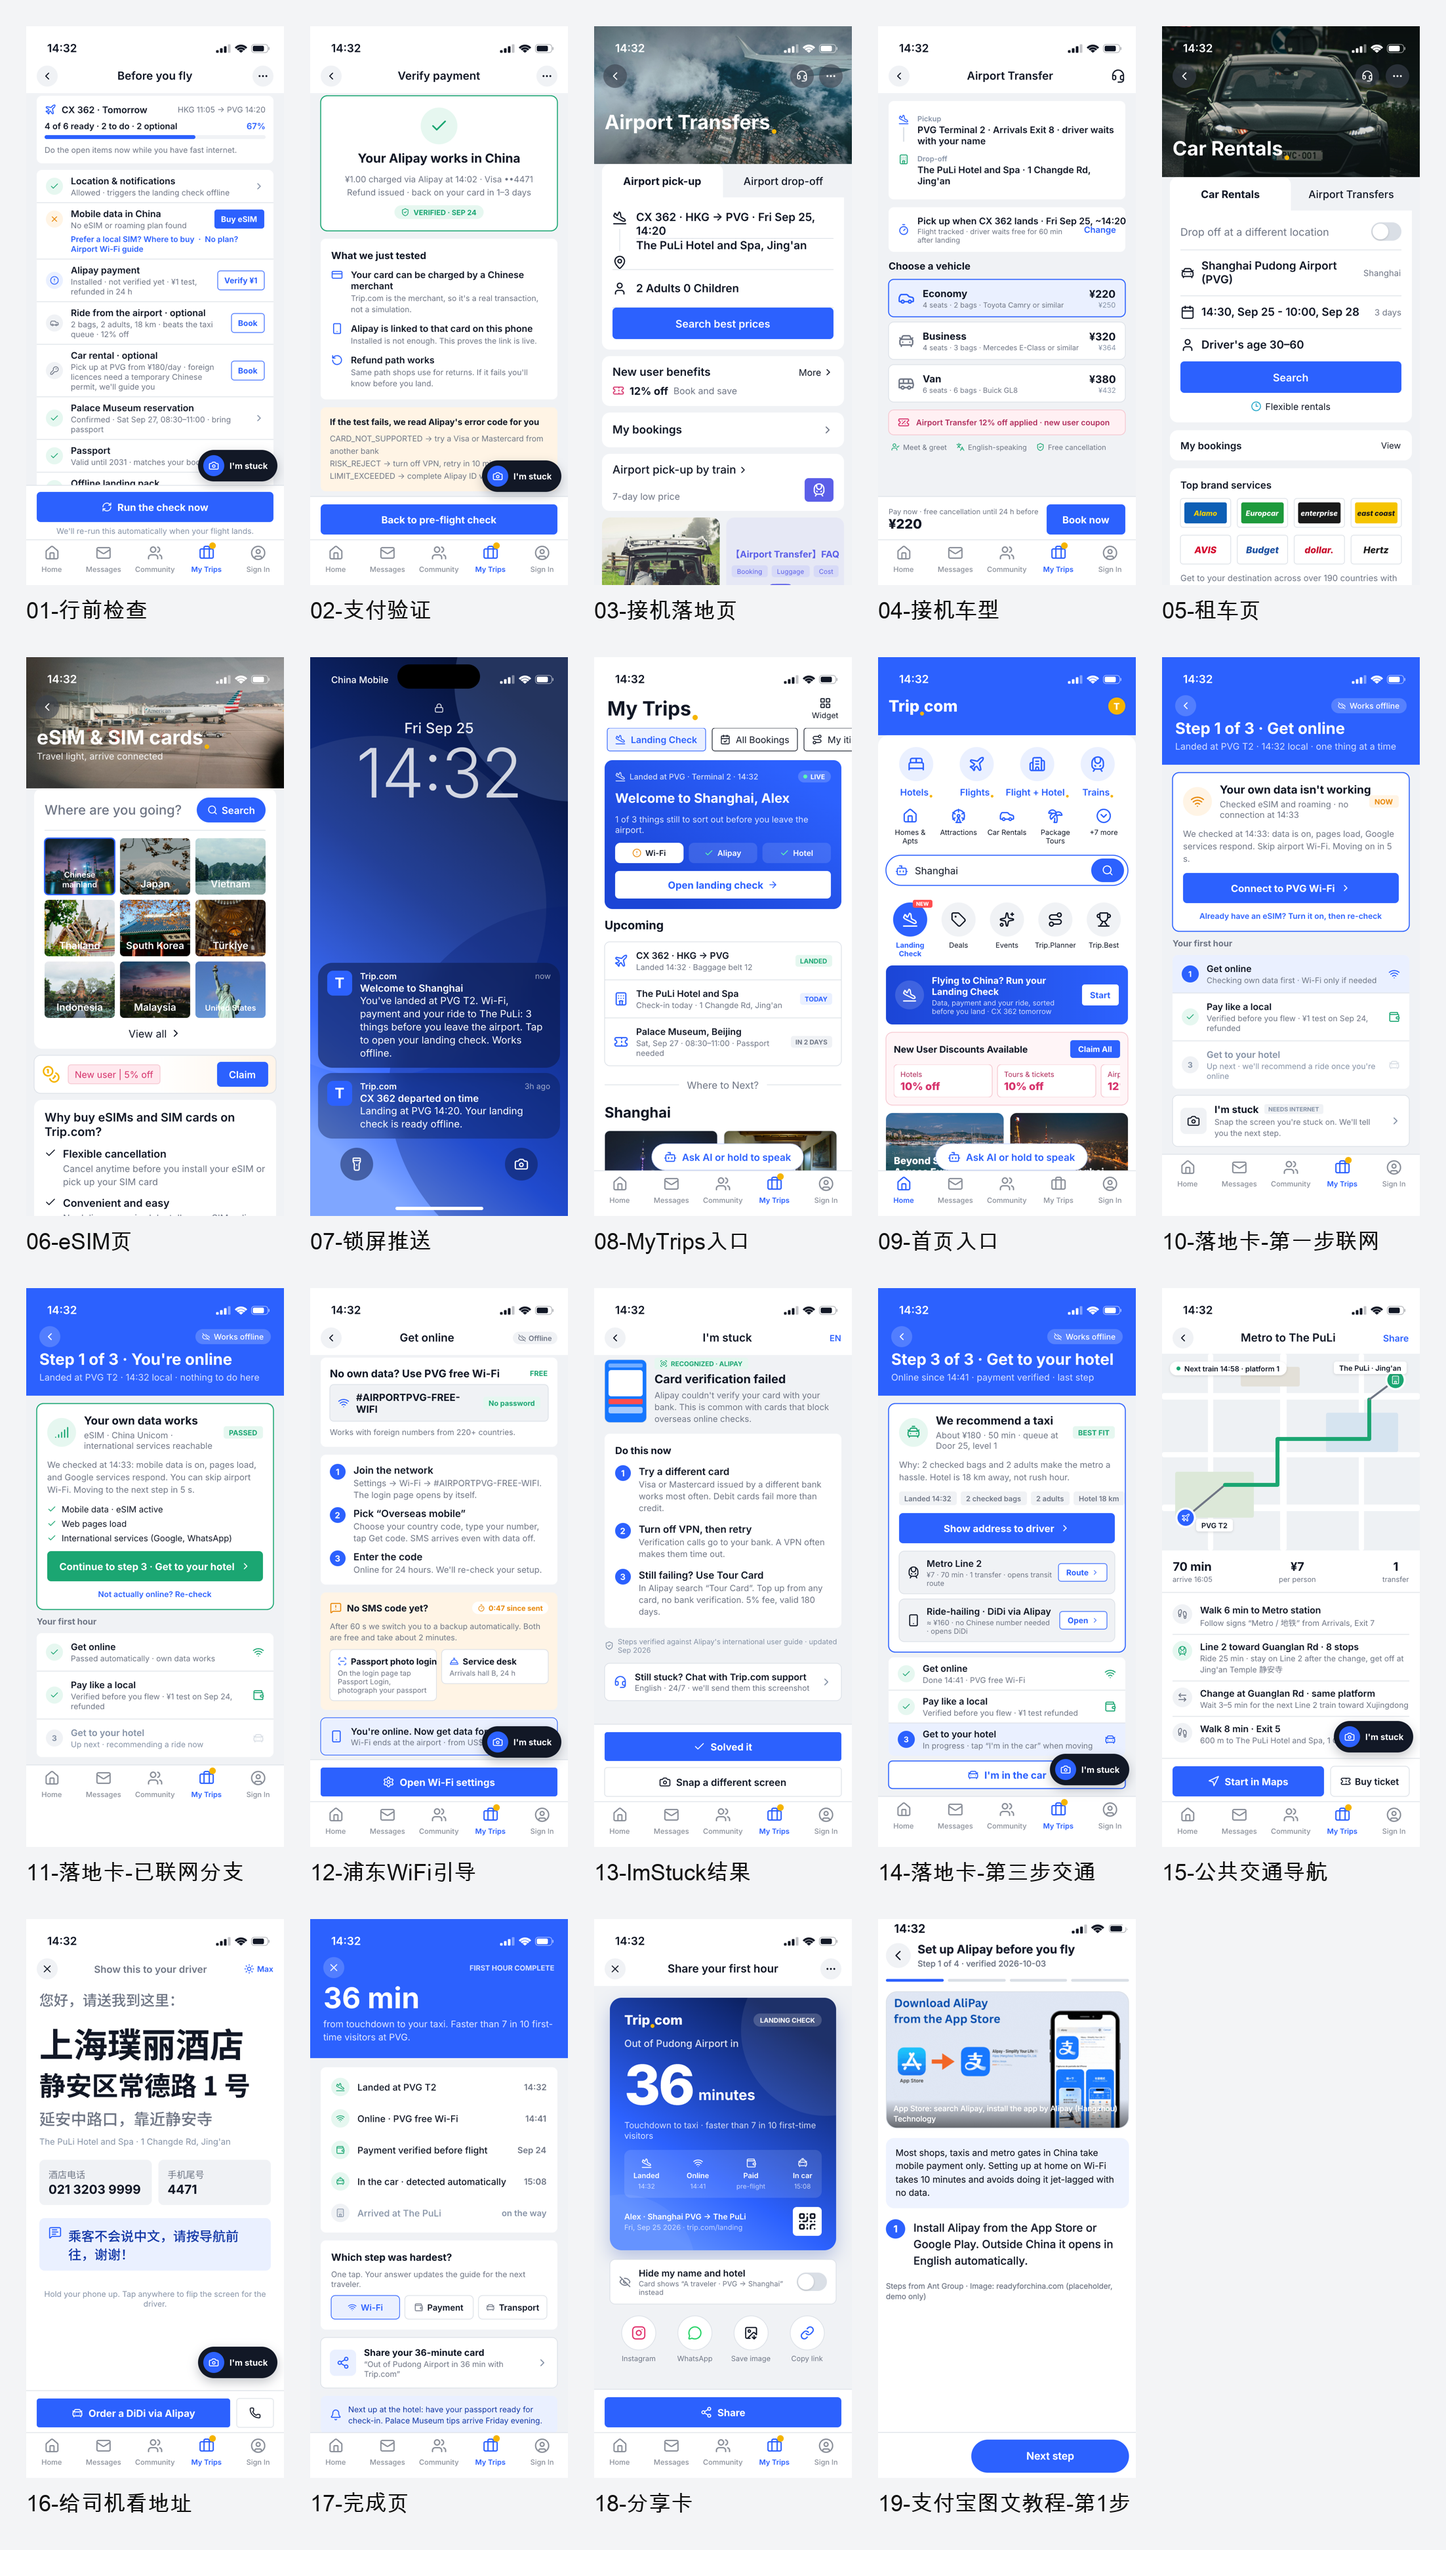
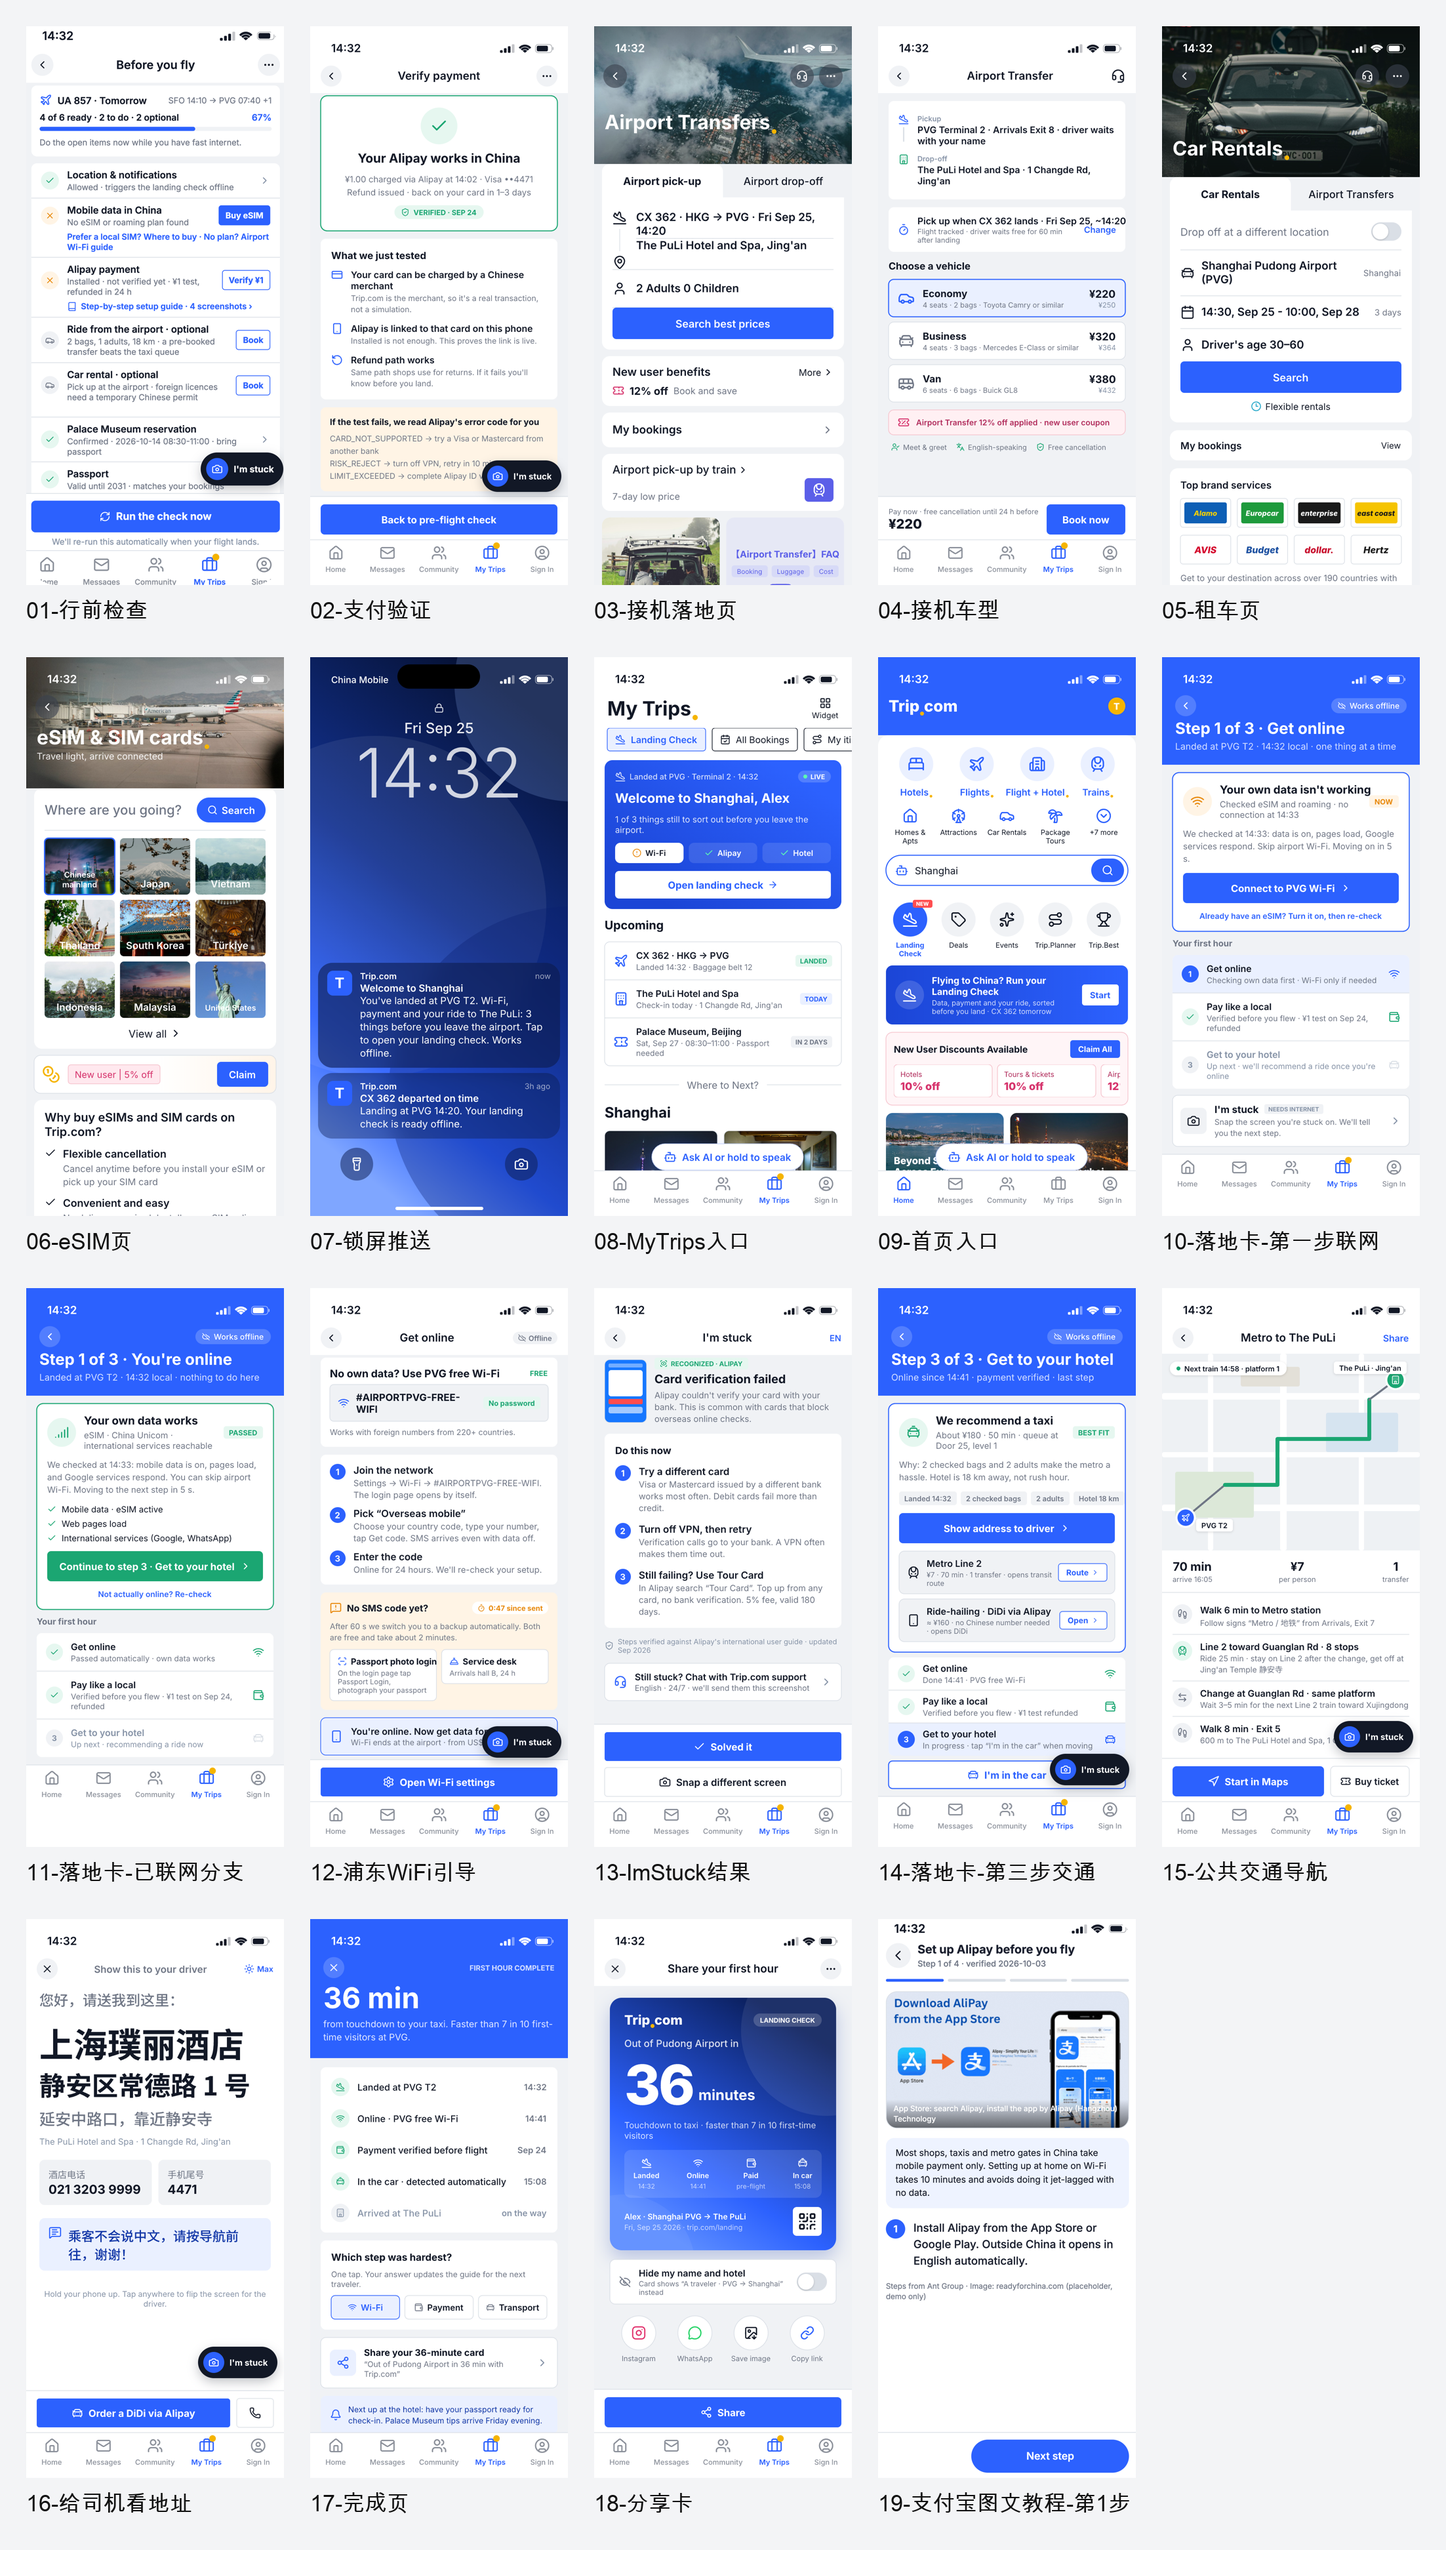
行前检查：航班信息改为接口驱动（6 屏共用），设计稿航班改 UA 857；exports 01 按带教程入口的运行时页面重截

Changed region(s): [[0.0, 0.0, 0.2159, 0.2178]]

diff --git a/h5/index.html b/h5/index.html
@@ -479,11 +479,11 @@
 <path d="M11.34082 1.09033q-0.29395 0.03076-0.65967 0.1709-0.60156 0.22217-1.14844 0.65625-0.14014 0.12646-1.14843 1.12109l-0.99121 0.99463-2.25586-0.50586q-1.46973-0.32129-1.89014-0.40332-0.42041-0.08545-0.54346-0.09912-0.32471 0-0.56054 0.1128-0.18457 0.0957-0.3042 0.22216-0.11621 0.12646-0.27002 0.39307-0.12646 0.2085-0.1709 0.3418-0.04102 0.1333-0.04102 0.32812-0.01367 0.32471 0.1128 0.60156 0.07178 0.14014 0.15381 0.22559 0.11279 0.12646 0.43408 0.33496 0.25293 0.16748 1.04931 0.70068 1.30225 0.85449 1.31592 0.875 0.01367 0.02051-0.32129 0.5127l-0.33496 0.50244-1.44238 0q-0.12646 0-0.19824 0.02735-0.06836 0.02734-0.15381 0.09912-0.08203 0.06836-0.3418 0.32812-0.25977 0.25977-0.33154 0.34522-0.06836 0.08203-0.09571 0.1538-0.04102 0.14014-0.0205 0.29395 0.02051 0.15381 0.11963 0.28027 0.05469 0.06836 0.90918 0.64258l0.86816 0.57422 0.57422 0.86816q0.57422 0.85449 0.64258 0.90918 0.1709 0.14014 0.40673 0.12647 0.15381-0.01367 0.25977-0.08203 0.10596-0.07178 0.41357-0.3794 0.3623-0.36572 0.39649-0.44091 0.0376-0.07861 0.04443-0.18799 0.00684-0.11279 0.00684-0.71436l0.01367-0.78613 0.48877-0.33496q0.49219-0.32129 0.5127-0.31446 0.02051 0.00684 0.875 1.30909 0.51611 0.79639 0.68701 1.03564 0.22217 0.32129 0.33496 0.43408 0.08203 0.0957 0.23926 0.16748 0.27686 0.12647 0.60156 0.1128 0.19482 0 0.34863-0.05811 0.43408-0.14014 0.60156-0.29394 0.54688-0.4751 0.42041-1.18946-0.02734-0.18115-0.50244-2.33789l-0.47851-2.15674 0.98095-0.97754q0.98096-0.98096 1.10743-1.13476 0.38965-0.4751 0.59814-0.96387 0.21191-0.49219 0.2666-0.94678 0.05811-0.45459-0.05469-0.82031-0.05469-0.23926-0.14697-0.35547-0.08887-0.11963-0.25976-0.19482-0.16748-0.07861-0.30762-0.10596-0.14014-0.03076-0.38965-0.03076-0.30762-0.01367-0.42041 0.01367z m0.43408 1.2749q-0.02734 0.30762-0.16064 0.63233-0.1333 0.32129-0.34522 0.61523-0.10938 0.14014-1.25781 1.30225-0.77246 0.75537-0.96728 0.97412-0.19482 0.21533-0.23926 0.27002l-0.01367 0.02734q-0.04102 0.09912-0.02735 0.19825 0 0.15381 0.09912 0.61523l0.42041 1.91748q0.52979 2.42334 0.52295 2.44385-0.00684 0.02051-0.14697 0.08545-0.14014 0.06152-0.15381 0.04785l-1.02197-1.55518q-1.02197-1.53809-1.08008-1.59961-0.05469-0.06494-0.15381-0.11279-0.0957-0.05127-0.25635-0.05127-0.16064 0-0.23242 0.04102-0.12305 0.07178-1.02197 0.67334-0.89551 0.60156-0.93652 0.65966-0.04102 0.05469-0.07862 0.11963-0.03418 0.06152-0.04101 0.18116-0.00684 0.11621-0.00684 0.62207l-0.01367 0.71435-0.7417-1.10742-1.10742-0.7417 0.71435-0.01367q0.50586 0 0.62207-0.00684 0.11963-0.00684 0.18116-0.04101 0.06494-0.0376 0.11963-0.07862 0.05811-0.04102 0.65966-0.93652 0.60156-0.89893 0.67334-1.02197 0.04102-0.07178 0.04102-0.23926 0-0.16748-0.05127-0.24951-0.04785-0.08545-0.11963-0.15381-0.06836-0.07178-1.59619-1.08008-1.52441-1.0083-1.53125-1.04248-0.00684-0.0376 0.06836-0.16064 0.07861-0.12646 0.10937-0.1128l4.32373 0.93653q0.44775 0.09912 0.58789 0.09912 0.09912 0.01367 0.19825-0.02735l0.02734-0.01367q0.05469-0.04443 0.27002-0.24609 0.21875-0.20166 0.97412-0.96045 1.16211-1.14844 1.30225-1.25781 0.32129-0.22559 0.66308-0.36573 0.34521-0.14014 0.63916-0.14013l0.09912 0-0.01367 0.14013z" fill="#2C61FE"></path>
 </svg>
 <div data-pencil-id="fBOf3" data-pencil-name="Flight No" style="box-sizing: border-box; color: #121826; font-family: Inter, system-ui, sans-serif; font-size: 14px; font-style: normal; font-weight: 600; letter-spacing: 0px; line-height: normal; text-align: left; white-space: nowrap">
-                  CX 362 · Tomorrow
+                  UA 857 · Tomorrow
                 </div>
 </div>
 <div data-pencil-id="ZHqX7" data-pencil-name="Flight Time" style="box-sizing: border-box; color: #6F7685; font-family: Inter, system-ui, sans-serif; font-size: 12px; font-style: normal; font-weight: 400; letter-spacing: 0px; line-height: normal; text-align: left; white-space: nowrap">
-                HKG 11:05 → PVG 14:20
+                SFO 14:10 → PVG 07:40 +1
               </div>
 </div>
 <div data-pencil-id="ZPg50" data-pencil-name="Progress" style="align-items: flex-start; box-sizing: border-box; display: flex; flex-direction: column; flex-shrink: 0; gap: 6px; height: fit-content; justify-content: flex-start; width: 100%">

diff --git a/h5/app.js b/h5/app.js
@@ -124,6 +124,22 @@
   if (!API) { status('静态模式'); window.lcHandle = (act) => staticHandle(act); window.lcOnShow = () => {}; return; }
   get('/health').then(() => status('后端已连接 · ' + API.replace(/^https?:\/\//, ''), 'rgba(27,166,114,.85)')).catch(() => status('后端不可达，静态模式', 'rgba(232,137,12,.9)'));
 
+  // ---------- 航班信息：把设计稿里写死的 CX 362 / HKG / 时间换成接口里的航班（6 个屏共用） ----------
+  async function renderFlight() {
+    let f; try { f = await get('/mock/flight'); } catch (e) { return; }
+    if (!f || !f.number) return;
+    const dep = (f.scheduled_departure || '').slice(11, 16), arr = (f.scheduled_arrival || '').slice(11, 16);
+    const nextDay = f.scheduled_departure && f.scheduled_arrival && f.scheduled_departure.slice(0, 10) !== f.scheduled_arrival.slice(0, 10);
+    const d = f.scheduled_arrival ? new Date(f.scheduled_arrival.replace(' ', 'T')) : null;
+    const dateS = d ? d.toLocaleDateString('en-US', { weekday: 'short', month: 'short', day: 'numeric' }).replace(',', '') : 'Fri Sep 25';
+    const from = (f.from && f.from.code) || 'HKG', to = (f.to && f.to.code) || 'PVG';
+    const swap = t => t.replace(/CX 362/g, f.number).replace(/HKG/g, from).replace(/11:05/g, dep || '11:05').replace(/14:20/g, arr || '14:20').replace(/Fri Sep 25/g, dateS);
+    [['home', 'Banner Sub'], ['preflight', 'Flight No'], ['preflight', 'Flight Time'], ['transfer', 'Time Title'], ['lock', 'Title'], ['lock', 'Body'], ['trips', 'Booking Title'], ['transfers', 'Flight Text']].forEach(([r, n]) => {
+      document.querySelectorAll(`.screen[data-route="${r}"] [data-pencil-name="${n}"]`).forEach(el => { if (/CX 362|HKG|Fri Sep 25/.test(el.textContent)) txt(el, swap(el.textContent.trim()) + (n === 'Flight Time' && nextDay ? ' +1' : '')); });
+    });
+  }
+  renderFlight();
+
   // ---------- 行前检查 ----------
   const ICONS = {};
   function captureIcons() {
